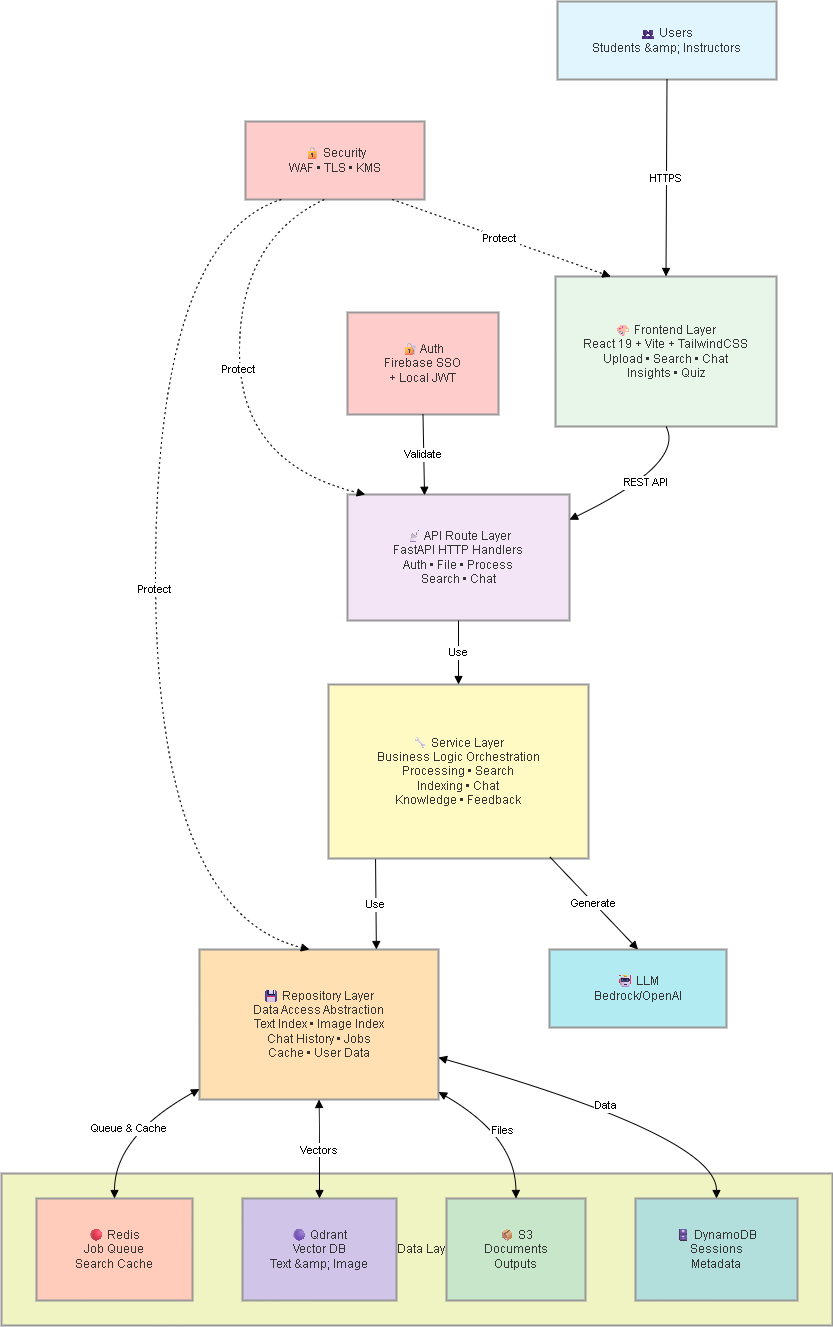
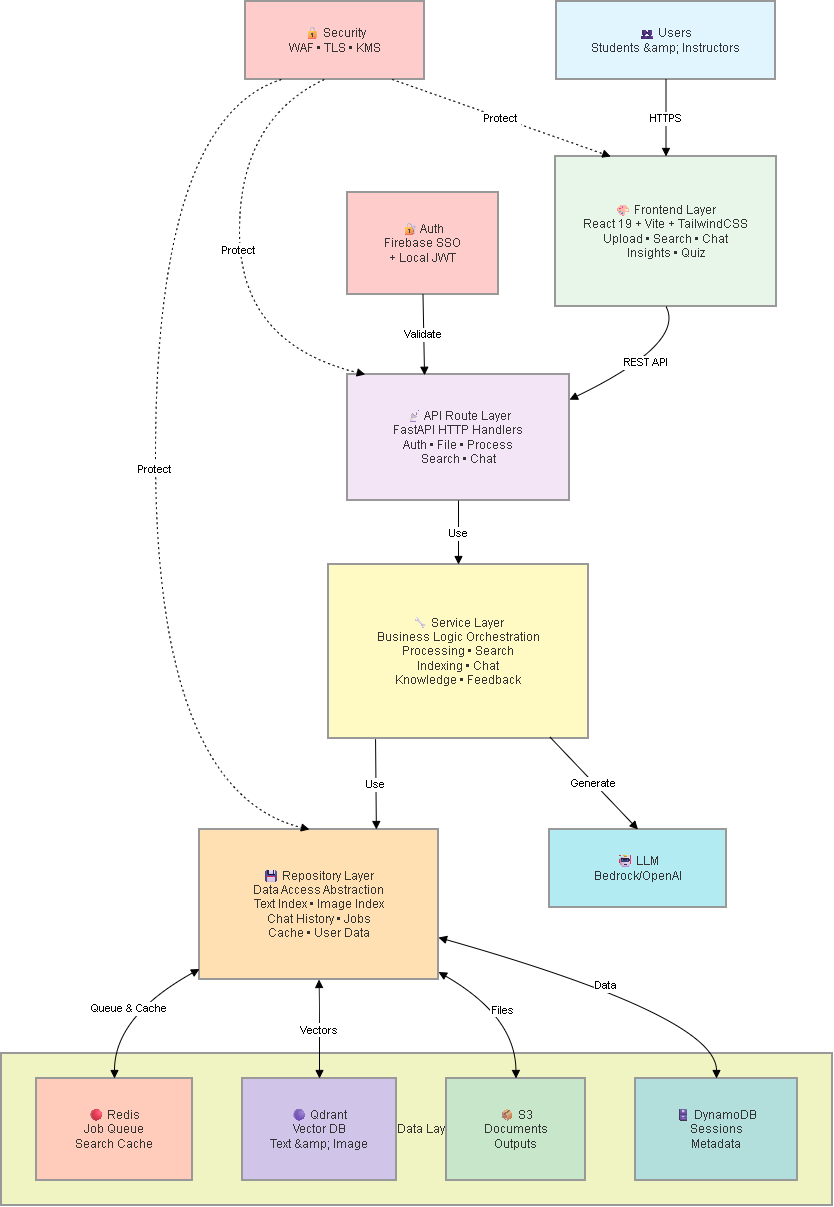
update: high-level architecture

diff --git a/Phase_2_Report/_heading/05_proposed_solution.tex b/Phase_2_Report/_heading/05_proposed_solution.tex
@@ -434,7 +434,7 @@ This section presents the proposed architecture of the BK-MInD MRAG system, orga
 
 \begin{figure}[H]
     \centering
-    \includegraphics[width=0.7\textwidth]{img/pdz/Report 252 Diagram-High Level Architecture.drawio.png}
+    \includegraphics[width=0.85\textwidth]{img/pdz/Report 252 Diagram-High Level Architecture.drawio.png}
     \caption[High-Level Architecture]{High-Level Architecture.}
     \label{fig:highlevel_architecture}
 \end{figure}